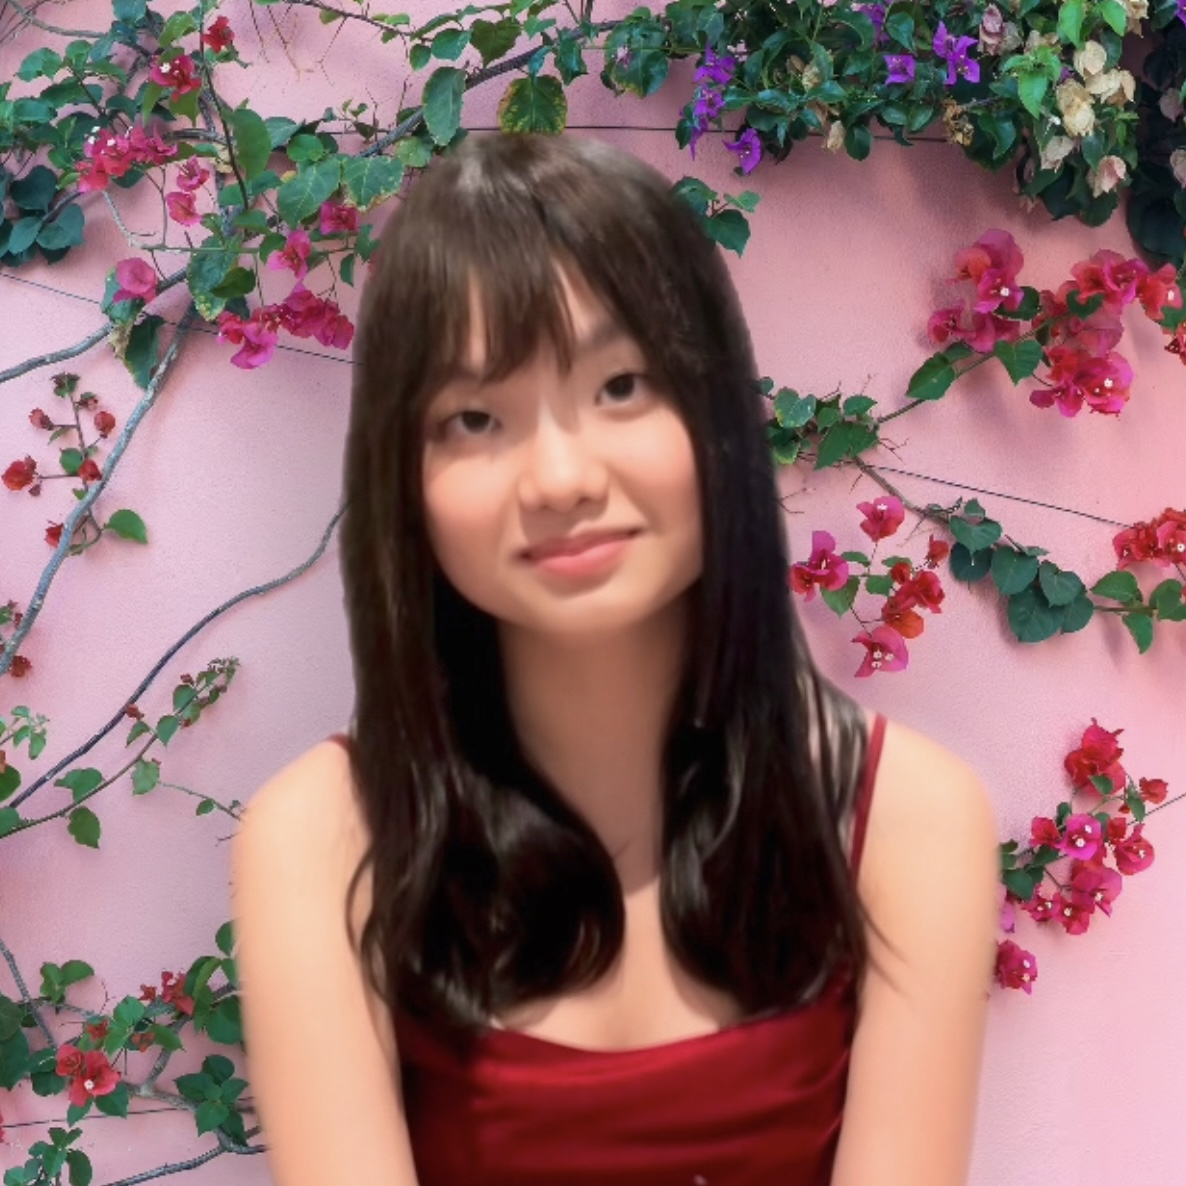
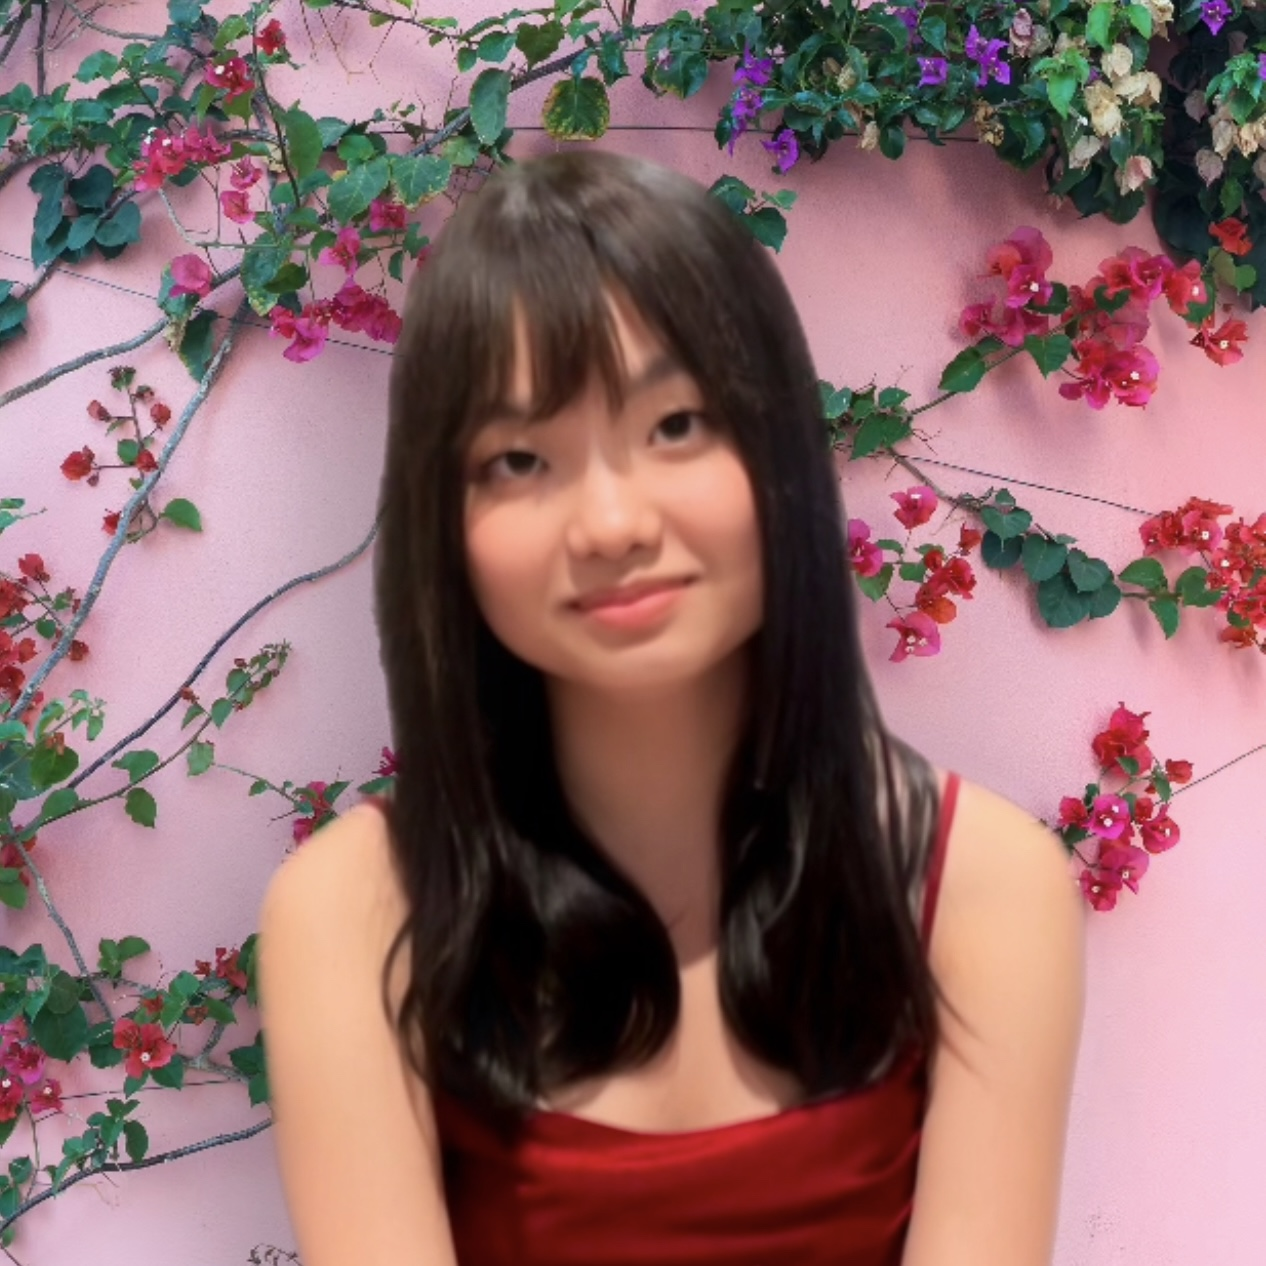
New pics

diff --git a/index.html b/index.html
@@ -106,7 +106,7 @@
         </div>
         <div class="images">
             <div class="gallery">
-                <img class="pic1" src="pics/bdaygirl.jpg"/>
+                <img class="pic1" src="pics/christmas.jpg"/>
                 <img class="pic2" src="pics/parents.jpg"/>
                 <img class="pic3" src="pics/bro.jpg"/>
                 <img class="pic4" src="pics/roomies.jpg"/>
